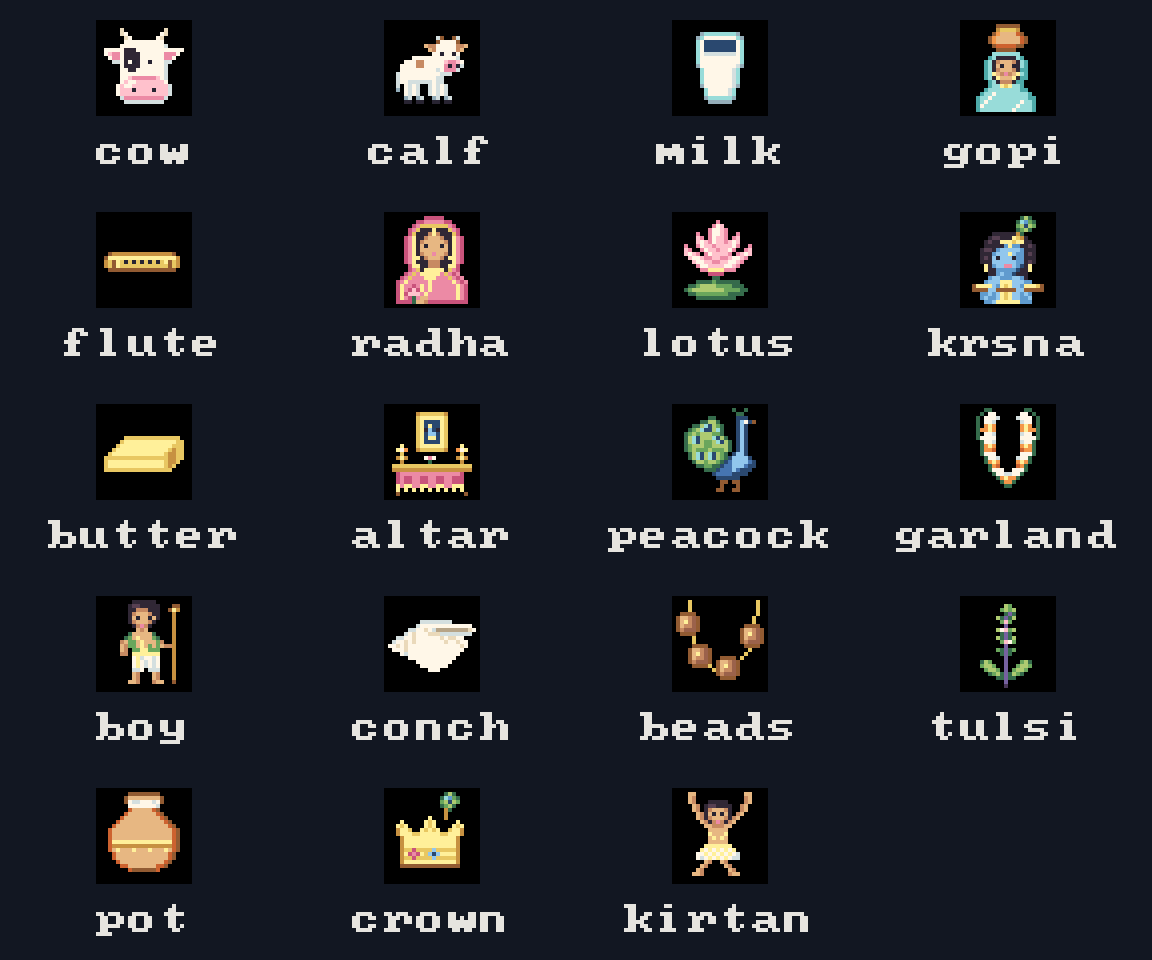
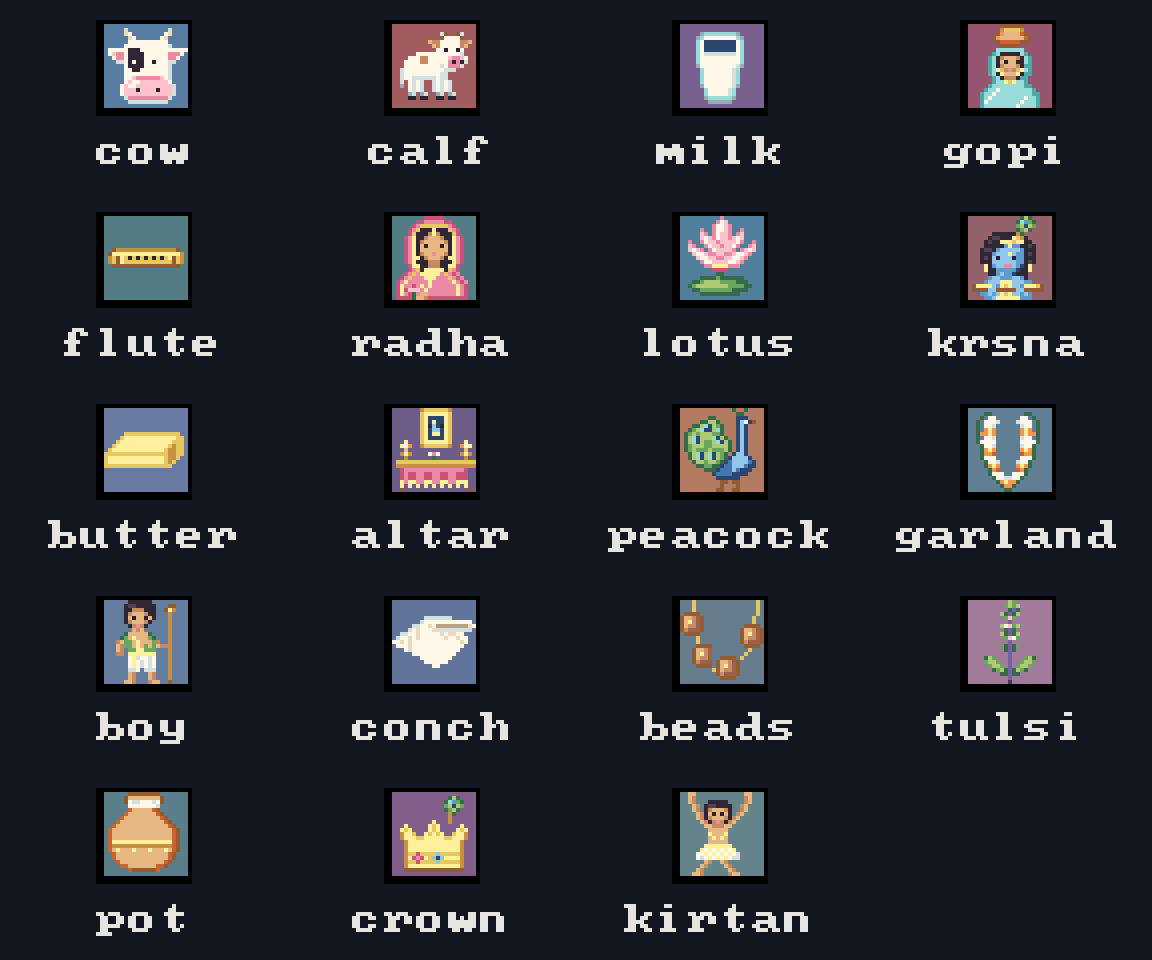
Add centred colour cards and subtle vocabulary animations

diff --git a/tools/art/pixelorama/README.md b/tools/art/pixelorama/README.md
@@ -73,7 +73,7 @@ separate and cannot overwrite the runtime hand-drawn boy sheet.
 ## Krsna vocabulary artwork
 
 `krsna-words.pxo` is the editable Pixelorama 1.2.2 source. It has nineteen 24×24
-frames in this order:
+pictures, with **two adjacent frames per picture** (38 frames total), in this order:
 
 1. cow
 2. calf
@@ -107,10 +107,38 @@ Botanical and museum references and drawing notes are in `reference-notes.md`.
 Cow is a face-on portrait with broad ears and a wide muzzle, without a hanging
 bell or chin detail. `cow-preview.png` provides an enlarged nearest-neighbour view.
 
+Every card uses WR1's black border and 21×21 coloured inset at (2,1) inside
+the 24×24 page. Backgrounds are individually chosen to contrast with the existing
+drawings. Most silhouettes are simply positioned within that inset; gopi, Radha
+and Krsna omit one redundant row, and conch and beads omit one column, avoiding
+resampling or cutting into the frame. The source grids remain intact.
+Placement centres the combined two-frame silhouette inside the coloured area,
+excluding the black border. When odd/even pixel dimensions leave a one-pixel
+margin difference, visible ink balance chooses the closer whole-pixel position.
+Both frames use the same anchor, so tail motion never shifts the whole animal.
+
+Six pictures animate: cow blinks, calf swishes its tail, altar lamps flicker,
+peacock eye-spots catch the light, garland sways, and kirtan sways over planted
+feet. The peacock's head and neck do not move. The other thirteen pictures have
+identical frame pairs. Runtime uses the existing picture clock (eight updates
+per frame); neither Legacy art nor animation timing is changed. Pixelorama's
+preview is set to 1.5 fps, approximately the default game speed.
+
 The game loads the horizontal runtime atlas at
 `assets/sprites/krsna_words.png`. After hand-editing the project in desktop
 Pixelorama, export all frames as a horizontal spritesheet at 100% scale to that
-path. Keep every frame exactly 24×24 and preserve the frame order.
+path. Keep every frame exactly 24×24 and preserve the adjacent-pair order:
+cow 0, cow 1, calf 0, calf 1, and so on. The atlas is 912×24.
+`krsna-words-preview.png` and `krsna-words-preview-2.png` show the two phases;
+`krsna-words-animated-preview.gif` loops between them for review.
+
+To rebuild that review GIF after exporting the two contact sheets:
+
+```powershell
+Copy-Item tools/art/pixelorama/krsna-words-preview.png build/word-card-0.png
+Copy-Item tools/art/pixelorama/krsna-words-preview-2.png build/word-card-1.png
+ffmpeg -y -framerate 3/2 -i 'build/word-card-%d.png' -filter_complex '[0:v]split[a][b];[a]palettegen[p];[b][p]paletteuse=dither=none' -loop 0 -final_delay 67 tools/art/pixelorama/krsna-words-animated-preview.gif
+```
 
 The pixel sketches are in `krsna_pixels.gd`, used by
 `tools/build_krsna_word_art.gd` to seed the local source and atlas. These are

diff --git a/README.md b/README.md
@@ -51,6 +51,9 @@ the original word lengths except the deliberately shorter teepee → tulsi;
 the mystery uses five letter pickups. Legacy retains the recovered WR1 vocabulary and art.
 The editable Pixelorama source and export instructions live in
 `tools/art/pixelorama/`.
+The pictures use coloured backgrounds and the original black card border.
+Cow, calf, altar, peacock, garland and kirtan have subtle two-frame animations;
+the other custom pictures remain static.
 
 ## Running
 
